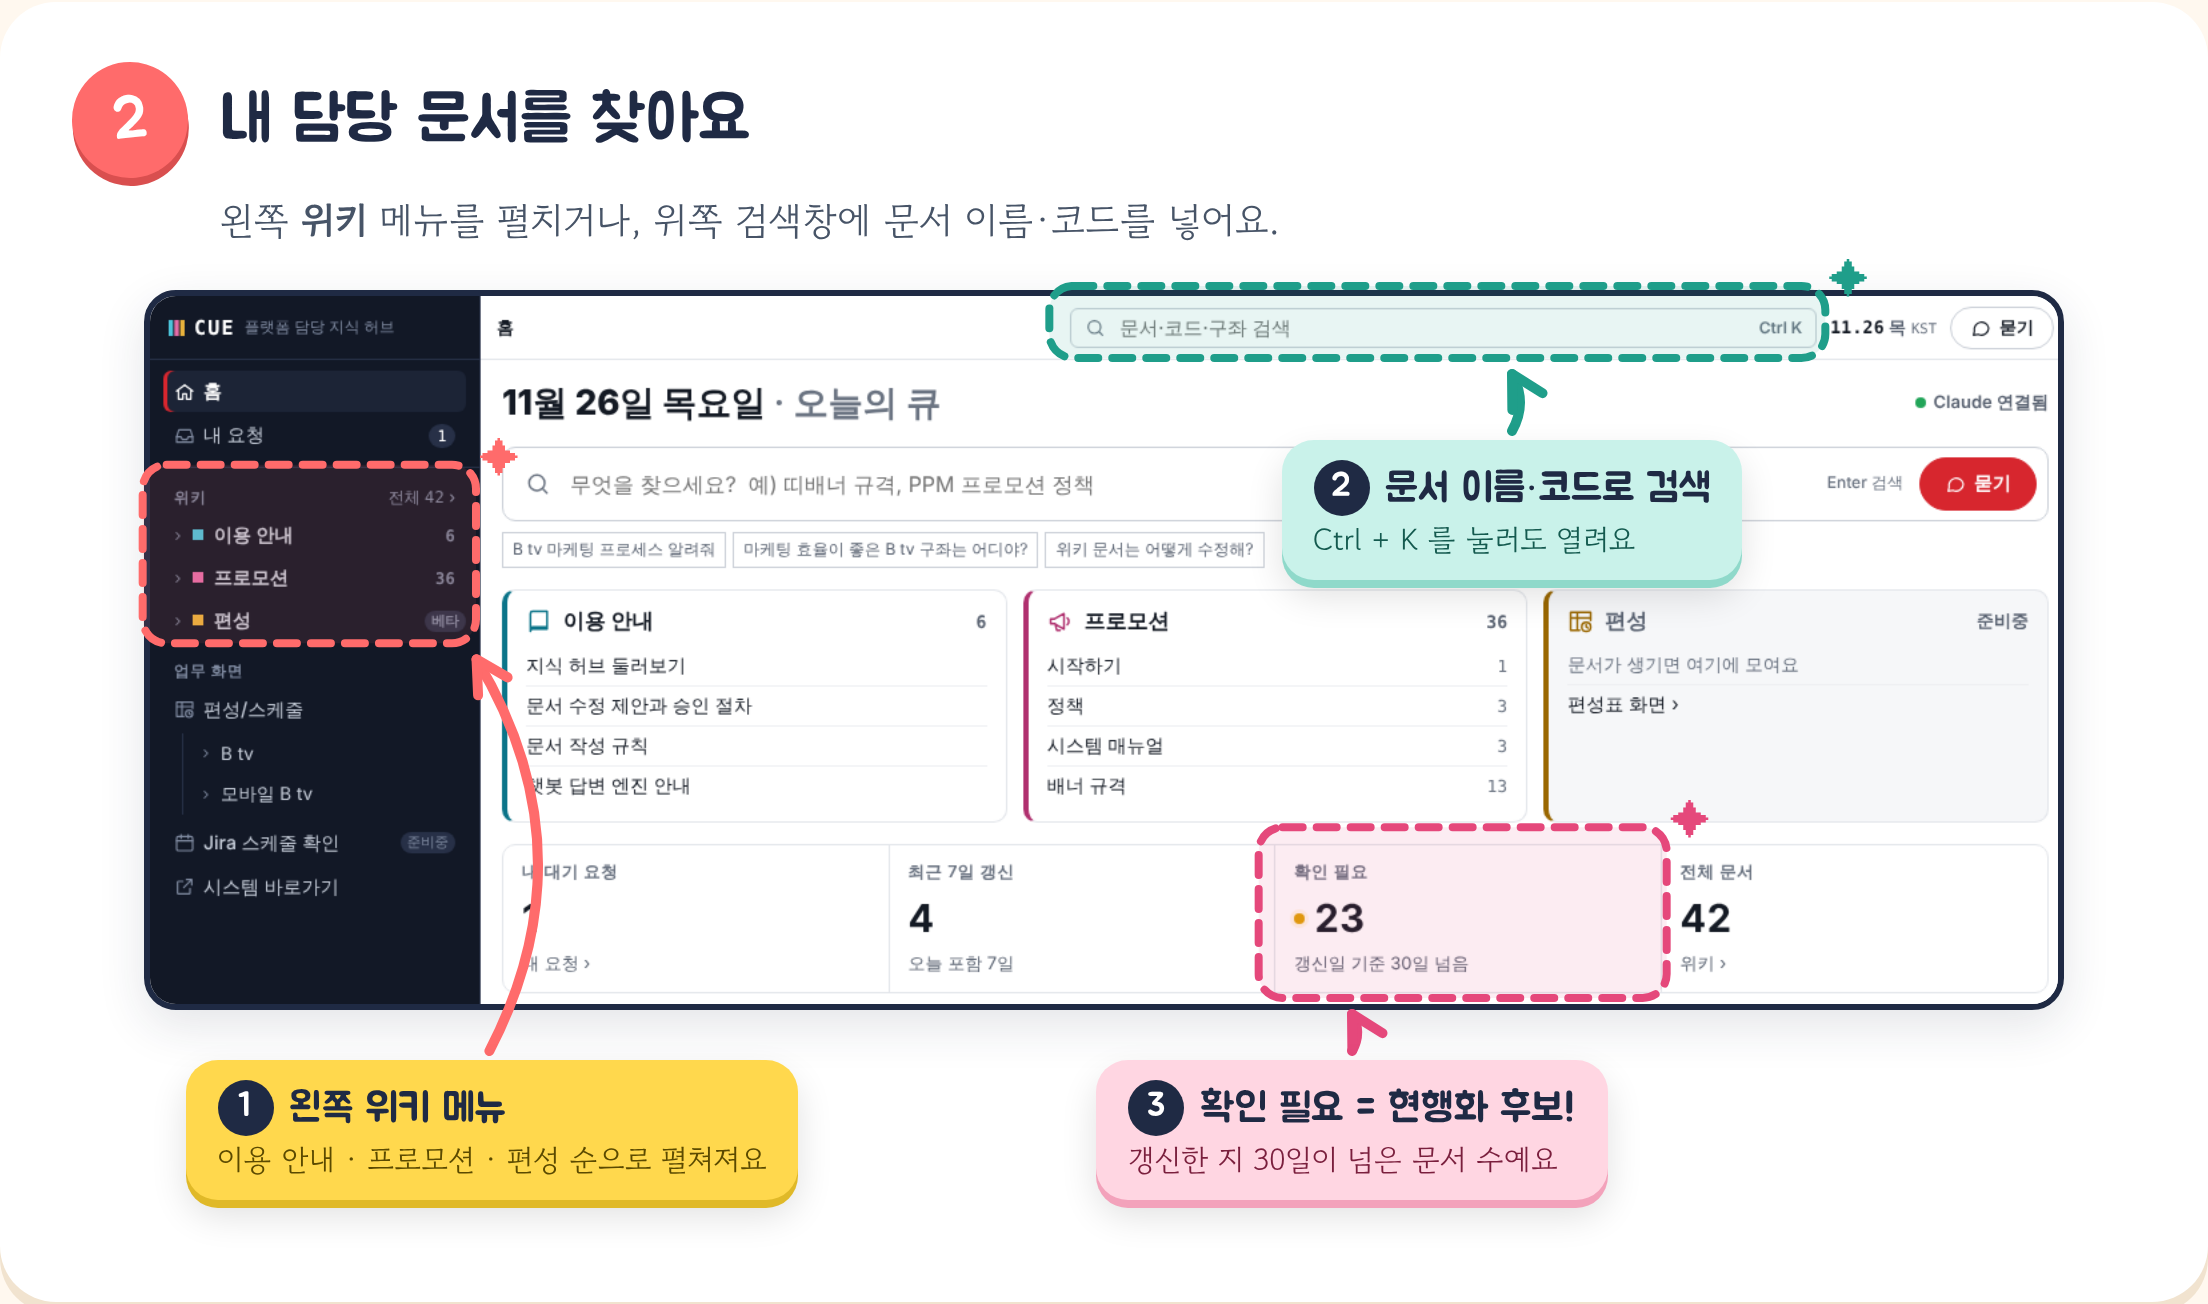
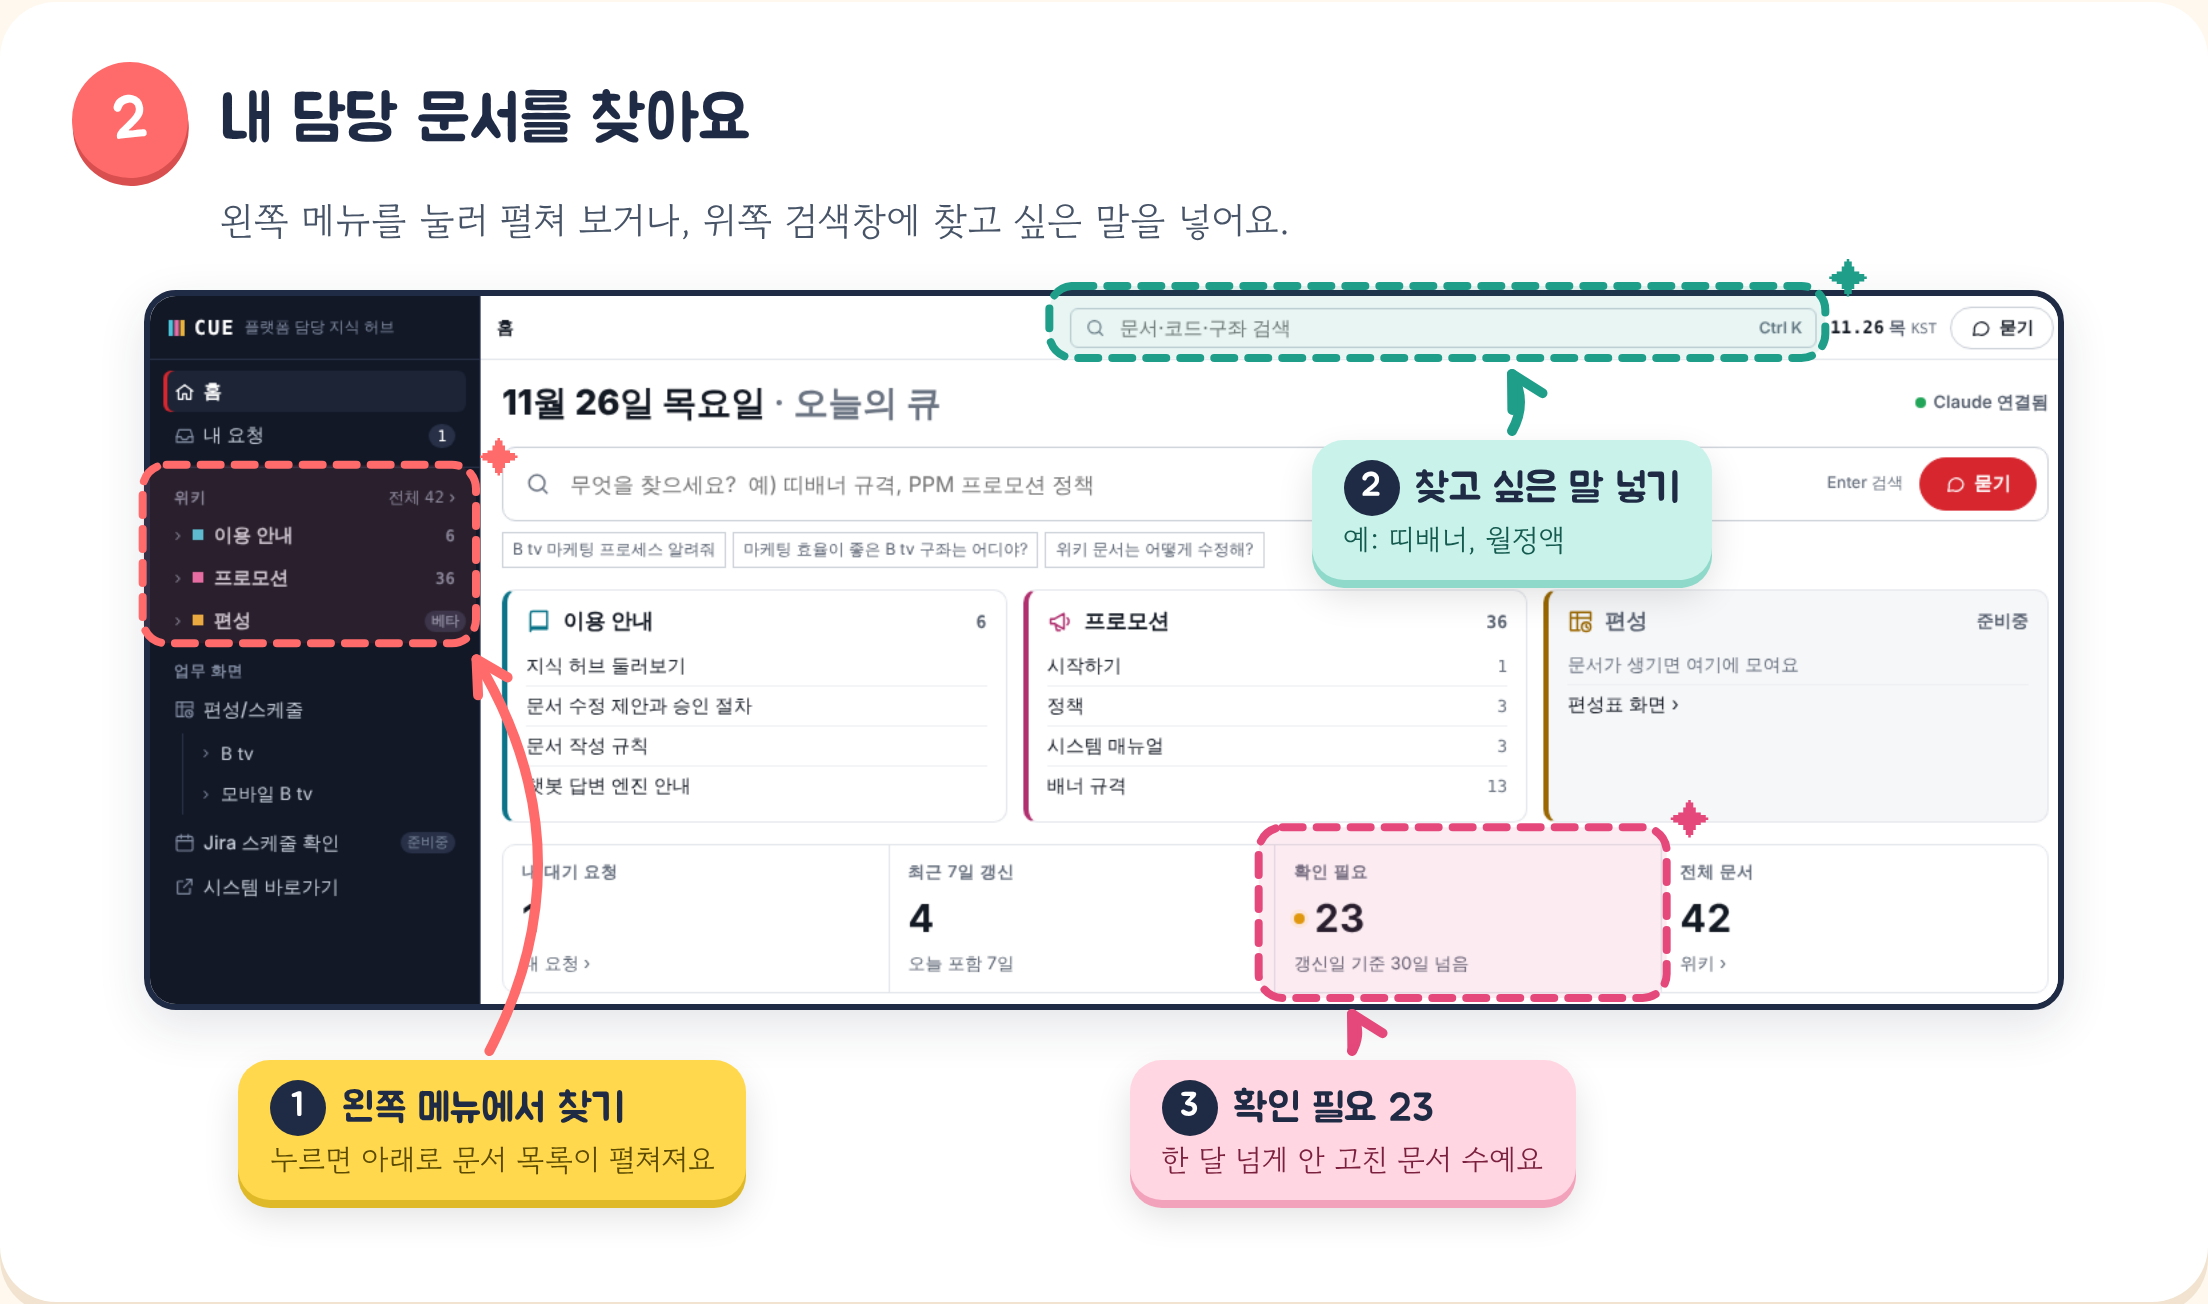
docs(rollout): 설명 이미지 문구를 초보자 말로 — 머지 등 낯선 말 풀이 추가
Claude-Session: https://claude.ai/code/session_01R5pPVy8BXndHPUZCzwJ5LA

diff --git a/docs/rollout/guide-images/src/guide.html b/docs/rollout/guide-images/src/guide.html
@@ -55,13 +55,13 @@ svg.ov{position:absolute;inset:0;overflow:visible;pointer-events:none}
   <div class="blob" style="width:160px;height:160px;background:var(--coral);right:150px;bottom:-70px"></div>
   <div class="tag">처음이어도 5분이면 OK ✨</div>
   <h1>위키 문서, 이렇게 고쳐요</h1>
-  <p>마크다운·Git 몰라도 괜찮아요. 워드처럼 화면에서 바로 고치고 제출하면,<br>관리자가 확인한 뒤 위키에 반영돼요.</p>
-  <div class="flow"><span>① 로그인</span><i>→</i><span>② 내 문서 찾기</span><i>→</i><span>③ 낡았나 확인</span><i>→</i><span>④ 고치고 제출</span><i>→</i><span>⑤ 진행 확인</span><i>+</i><span>⑥ 없는 건 새 문서</span></div>
+  <p>어려운 프로그램 필요 없어요. 워드 고치듯 화면에서 글자를 바로 고치고<br><b style="color:var(--yellow)">제출하기</b>만 누르면, 관리자가 한 번 보고 위키에 올려 드려요.</p>
+  <div class="flow"><span>① 로그인</span><i>→</i><span>② 내 문서 찾기</span><i>→</i><span>③ 오래됐나 보기</span><i>→</i><span>④ 고치고 보내기</span><i>→</i><span>⑤ 잘 올라갔나 보기</span><i>+</i><span>⑥ 없으면 새로 쓰기</span></div>
 </section>
 
 <section class="card" id="s1">
   <div class="head"><div class="num">1</div><h2>받은 계정으로 로그인해요</h2></div>
-  <p class="desc">계정 요청서를 보내면 아이디와 임시 비밀번호를 받아요. 첫 로그인 때 내 비밀번호로 한 번만 바꾸면 끝!</p>
+  <p class="desc">계정 요청서를 보내면 아이디와 임시 비밀번호를 보내 드려요. 처음 들어갈 때 내가 쓸 비밀번호로 한 번만 바꾸면 끝!</p>
   <div class="login-row">
     <div class="mock"><div class="t">🔐 지식 허브 로그인</div>
       <div class="f on">아이디 · hong.gd</div><div class="f on">임시 비밀번호 · ••••••••</div><div class="btn">로그인</div></div>
@@ -69,66 +69,68 @@ svg.ov{position:absolute;inset:0;overflow:visible;pointer-events:none}
     <div class="mock"><div class="t">🔑 새 비밀번호로 바꾸기</div>
       <div class="f on">새 비밀번호 · ••••••••</div><div class="f on">한 번 더 · ••••••••</div><div class="btn">바꾸고 시작하기</div></div>
   </div>
-  <div class="tip"><span class="ic">💡</span><div><strong>비밀번호를 잊었다면?</strong> 관리자에게 말하면 새 임시 비밀번호를 바로 발급해 드려요. 5번 틀리면 10분 동안 잠겨요.</div></div>
+  <div class="tip"><span class="ic">💡</span><div><strong>비밀번호를 잊었다면?</strong> 관리자에게 말하면 새 임시 비밀번호를 바로 보내 드려요. 5번 틀리면 10분 동안 잠기니 천천히 넣어 주세요.</div></div>
 </section>
 
 <section class="card" id="s2">
   <div class="head"><div class="num">2</div><h2>내 담당 문서를 찾아요</h2></div>
-  <p class="desc">왼쪽 <b>위키</b> 메뉴를 펼치거나, 위쪽 검색창에 문서 이름·코드를 넣어요.</p>
+  <p class="desc">왼쪽 메뉴를 눌러 펼쳐 보거나, 위쪽 검색창에 찾고 싶은 말을 넣어요.</p>
   <div class="stage" data-img="home.png" data-crop="0,0,1440,540" data-bot="110" data-w="960">
-    <a data-t="8,140,240,256" data-l="210,420" data-c="yellow" data-n="1" data-h="왼쪽 위키 메뉴" data-s="이용 안내 · 프로모션 · 편성 순으로 펼쳐져요"></a>
-    <a data-t="688,6,1252,42" data-l="720,110" data-c="mint" data-n="2" data-h="문서 이름·코드로 검색" data-s="Ctrl + K 를 눌러도 열려요"></a>
-    <a data-t="845,412,1133,522" data-l="640,420" data-c="pink" data-n="3" data-h="확인 필요 = 현행화 후보!" data-s="갱신한 지 30일이 넘은 문서 수예요"></a>
+    <a data-t="8,140,240,256" data-l="210,420" data-c="yellow" data-n="1" data-h="왼쪽 메뉴에서 찾기" data-s="누르면 아래로 문서 목록이 펼쳐져요"></a>
+    <a data-t="688,6,1252,42" data-l="720,110" data-c="mint" data-n="2" data-h="찾고 싶은 말 넣기" data-s="예: 띠배너, 월정액"></a>
+    <a data-t="845,412,1133,522" data-l="640,420" data-c="pink" data-n="3" data-h="확인 필요 23" data-s="한 달 넘게 안 고친 문서 수예요"></a>
   </div>
 </section>
 
 <section class="card" id="s3">
-  <div class="head"><div class="num">3</div><h2>문서가 낡았는지 확인해요</h2></div>
-  <p class="desc">제목 아래와 오른쪽 <b>문서 정보</b>를 보면 언제, 어느 팀이 마지막으로 고쳤는지 알 수 있어요.</p>
+  <div class="head"><div class="num">3</div><h2>문서가 오래됐는지 봐요</h2></div>
+  <p class="desc">문서 제목 아래와 오른쪽 상자에 <b>마지막으로 고친 날</b>이 적혀 있어요. 오래됐다면 지금 내용이 맞는지 봐 주세요.</p>
   <div class="stage" data-img="promo.png" data-crop="248,48,1440,520" data-top="60" data-bot="10" data-w="960">
-    <a data-t="280,100,552,122" data-l="230,270" data-c="mint" data-n="1" data-h="버전 · 마지막 갱신일" data-s="v2 · 2026-09-17 → 두 달 넘게 그대로"></a>
-    <a data-t="632,126,708,148" data-l="530,225" data-c="pink" data-n="2" data-h="🟡 확인 권장" data-s="오래된 문서라는 표시예요"></a>
-    <a data-t="1110,104,1340,230" data-l="870,360" data-c="yellow" data-n="3" data-h="담당 팀 · 상태" data-s="우리 팀 문서인지 확인!"></a>
-    <a data-t="1014,62,1089,91" data-l="500,28" data-c="yellow" data-n="4" data-h="✎ 고치기 누르면 시작!" data-s=""></a>
+    <a data-t="280,100,552,122" data-l="230,270" data-c="mint" data-n="1" data-h="마지막으로 고친 날" data-s="9월 17일 이후로 그대로예요"></a>
+    <a data-t="632,126,708,148" data-l="530,225" data-c="pink" data-n="2" data-h="🟡 확인 권장" data-s="오래됐으니 한번 봐 달라는 뜻"></a>
+    <a data-t="1110,104,1340,230" data-l="870,360" data-c="yellow" data-n="3" data-h="문서 정보 상자" data-s="고친 날·상태를 한눈에"></a>
+    <a data-t="1014,62,1089,91" data-l="500,28" data-c="yellow" data-n="4" data-h="'✎ 고치기'를 누르면 시작!" data-s=""></a>
   </div>
 </section>
 
 <section class="card" id="s4">
-  <div class="head"><div class="num">4</div><h2>그 자리에서 고치고 제출해요</h2></div>
-  <p class="desc">페이지가 바뀌지 않고 바로 편집 칸이 돼요. 고친 곳은 색으로 칠해지고, 쓰는 동안 이 PC에 저절로 임시 저장돼요.</p>
+  <div class="head"><div class="num">4</div><h2>그 자리에서 고치고 보내요</h2></div>
+  <p class="desc">화면이 그대로 글 쓰는 칸으로 바뀌어요. 고친 곳엔 색이 칠해지고, 쓰던 내용은 저절로 저장되니 창을 닫아도 괜찮아요.</p>
   <div class="stage" data-img="edit0.png" data-crop="248,48,1440,660" data-bot="20" data-w="960">
-    <a data-t="272,338,700,366" data-l="330,345" data-c="yellow" data-n="1" data-h="글자를 눌러 바로 고쳐요" data-s="워드 쓰듯이! 기호는 몰라도 돼요"></a>
-    <a data-t="274,238,1076,268" data-l="760,118" data-c="mint" data-n="2" data-h="굵게 · 링크 · 표 · 주의 상자" data-s="막히면 'AI에게 부탁'도 있어요"></a>
-    <a data-t="1110,284,1414,376" data-l="500,262" data-c="pink" data-n="3" data-h="수정 사유 한 줄" data-s="무엇을 왜 바꿨는지 — 승인 근거예요"></a>
-    <a data-t="1112,378,1412,414" data-l="860,470" data-c="yellow" data-n="4" data-h="제출하기!" data-s="관리자가 확인한 뒤 반영돼요"></a>
+    <a data-t="272,338,700,366" data-l="330,345" data-c="yellow" data-n="1" data-h="고칠 글자를 눌러 바로 써요" data-s="워드랑 똑같아요"></a>
+    <a data-t="274,238,1076,268" data-l="760,118" data-c="mint" data-n="2" data-h="글자 꾸미기 버튼" data-s="안 써도 괜찮아요"></a>
+    <a data-t="1110,284,1414,376" data-l="500,262" data-c="pink" data-n="3" data-h="왜 고쳤는지 한 줄" data-s="예: 10월부터 기준이 바뀜"></a>
+    <a data-t="1112,378,1412,414" data-l="860,470" data-c="yellow" data-n="4" data-h="제출하기 누르면 끝!" data-s="관리자에게 보내져요"></a>
   </div>
-  <div class="tip"><span class="ic">🙅</span><div><strong>이것만은 쓰지 마세요</strong> — 매출 금액, 제휴사 실명, 개인 실명·연락처. 수치는 "늘었다/줄었다" 같은 경향으로 써 주세요. 화면이 제출 전에 알아서 한 번 더 검사해 줘요.</div></div>
+  <div class="tip"><span class="ic">🙅</span><div><strong>이것만은 쓰지 마세요</strong> — 매출 금액, 제휴사 실명, 개인 실명·연락처. 숫자 대신 "늘었다 / 줄었다"처럼 써 주세요. 혹시 들어가면 보내기 전에 화면이 알려 줘요.</div></div>
 </section>
 
 <section class="card" id="s5">
-  <div class="head"><div class="num">5</div><h2>내 요청에서 진행 상황을 봐요</h2></div>
-  <p class="desc">제출한 수정은 왼쪽 <b>내 요청</b> 메뉴에 모여요. 상태는 딱 세 가지예요.</p>
+  <div class="head"><div class="num">5</div><h2>잘 올라갔는지 '내 요청'에서 봐요</h2></div>
+  <p class="desc">보낸 문서는 왼쪽 <b>내 요청</b>에 모여요. 아래처럼 글자가 바뀌면서 진행돼요.</p>
   <div class="stage" data-img="req.png" data-crop="0,0,1440,138" data-bot="120" data-w="960">
     <a data-t="8,88,240,122" data-l="200,160" data-c="yellow" data-n="1" data-h="내 요청 메뉴" data-s=""></a>
-    <a data-t="256,92,374,132" data-l="470,160" data-c="mint" data-n="2" data-h="문서 수정 제안 탭" data-s=""></a>
+    <a data-t="256,92,374,132" data-l="470,160" data-c="mint" data-n="2" data-h="여기에 보낸 문서가 보여요" data-s=""></a>
   </div>
   <div class="status" style="margin-top:18px">
-    <div class="chip wait">대기 중<small>관리자 확인 전</small></div><i>→</i>
-    <div class="chip done">머지됨<small>승인 완료!</small></div><i>→</i>
-    <div class="chip live">위키에 반영<small>다음 배포 때</small></div>
+    <div class="chip wait">대기 중<small>관리자가 아직 보는 중</small></div><i>→</i>
+    <div class="chip done">머지됨<small>= 승인됐어요! 🎉</small></div><i>→</i>
+    <div class="chip live">위키에 보여요<small>다음 업데이트 때 자동으로</small></div>
     <span style="width:24px"></span>
-    <div class="chip no">닫힘<small>반려 · 사유 보고 다시 제안</small></div>
+    <div class="chip no">닫힘<small>= 돌려받았어요 · 이유 보고 다시 보내기</small></div>
   </div>
+  <div class="tip"><span class="ic">🗂</span><div><strong>화면에 나오는 낯선 말, 이 뜻이에요</strong><br>
+  <b>머지됨</b> = 승인됨 · <b>대기 중</b> = 관리자 확인 기다리는 중 · <b>닫힘</b> = 돌려받음 · <b>확인 권장</b> = 오래된 문서 · <b>v2</b> = 두 번째로 고친 판</div></div>
 </section>
 
 <section class="card" id="s6">
   <div class="head"><div class="num">6</div><h2>없는 내용은 새 문서로 써요</h2></div>
-  <p class="desc">찾는 문서가 아예 없다면 위키 목록 오른쪽 위 <b>+ 새 문서</b>를 눌러요. 제출 흐름은 고치기와 똑같아요.</p>
+  <p class="desc">찾는 내용이 아예 없다면 문서 목록 오른쪽 위 <b>+ 새 문서</b>를 눌러요. 쓰고 보내는 방법은 고치기와 똑같아요.</p>
   <div class="stage" data-img="wikiidx.png" data-crop="248,48,1440,330" data-w="960">
-    <a data-t="1352,62,1428,92" data-l="800,130" data-c="pink" data-n="1" data-h="+ 새 문서" data-s="빠진 정책·노하우를 채워 주세요"></a>
-    <a data-t="260,124,564,156" data-l="420,170" data-c="mint" data-n="2" data-h="분류별로 모아 보기" data-s="어디에 넣을지 감 잡기"></a>
+    <a data-t="1352,62,1428,92" data-l="800,130" data-c="pink" data-n="1" data-h="+ 새 문서" data-s="빠진 기준·노하우를 써 주세요"></a>
+    <a data-t="260,124,564,156" data-l="420,170" data-c="mint" data-n="2" data-h="주제별 묶음" data-s="어디에 넣을지 참고해요"></a>
   </div>
-  <div class="tip"><span class="ic">📖</span><div><strong>더 자세한 사용법</strong>은 허브 안 <b>이용 안내 › 문서 수정 제안과 승인 절차</b>, <b>문서 작성 규칙</b>에 있어요. 궁금한 건 오른쪽 위 <b>묻기</b>(챗봇)에게 물어봐도 돼요!</div></div>
+  <div class="tip"><span class="ic">📖</span><div><strong>막히면 물어보세요!</strong> 화면 오른쪽 위 빨간 <b>묻기</b> 버튼을 누르고 "문서 어떻게 고쳐?"처럼 편하게 물어보면 알려 줘요. 자세한 설명은 왼쪽 메뉴 <b>이용 안내</b>에 있어요.</div></div>
 </section>
 
 <div class="footer">문서 한 줄이 다음 담당자의 하루를 아껴 줘요 🙌</div>

diff --git a/docs/rollout/안내메일.md b/docs/rollout/안내메일.md
@@ -28,7 +28,7 @@
   - **있어야 할 내용이 없다** → 새 문서 또는 내용 추가
 - 문서마다 마지막 갱신일과 상태가 보입니다. **'확인 권장'(🟡) 표시가 붙은 문서부터** 보시면 빠릅니다.
 - 특히 **편성 메뉴는 아직 문서가 비어 있습니다.** 영화/시리즈·TV 방송 등 편성 기준과 사례를 가장 잘 아는 분들의 첫 문서를 기다리고 있습니다.
-- 사용법은 첨부 이미지 한 장에 정리했습니다. 마크다운·Git을 몰라도 워드처럼 화면에서 바로 고치면 되고, 제출하면 관리자가 확인한 뒤 반영합니다.
+- 사용법은 첨부 이미지 한 장에 정리했습니다. 어려운 프로그램 없이 워드 고치듯 화면에서 바로 고치고 **제출하기**만 누르면, 관리자가 한 번 보고 위키에 올립니다.
 
 허브 주소: [허브 주소]
 
